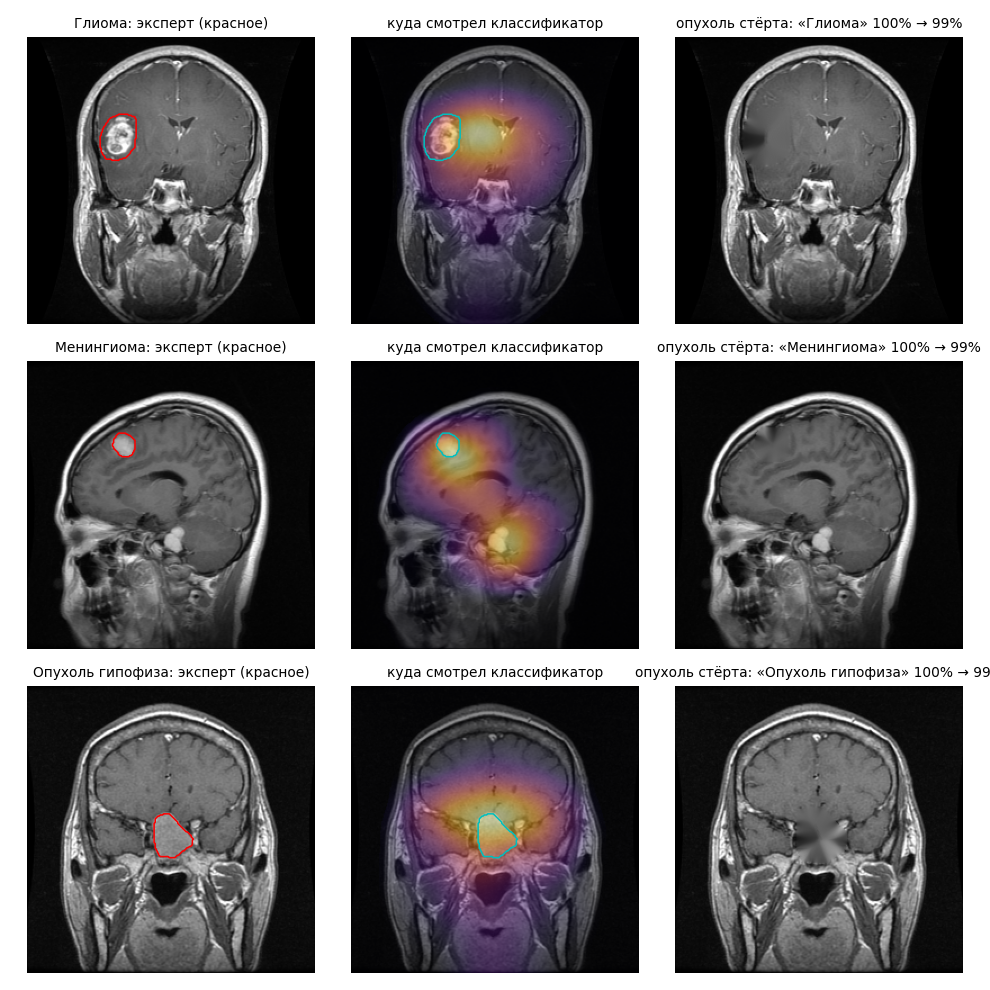
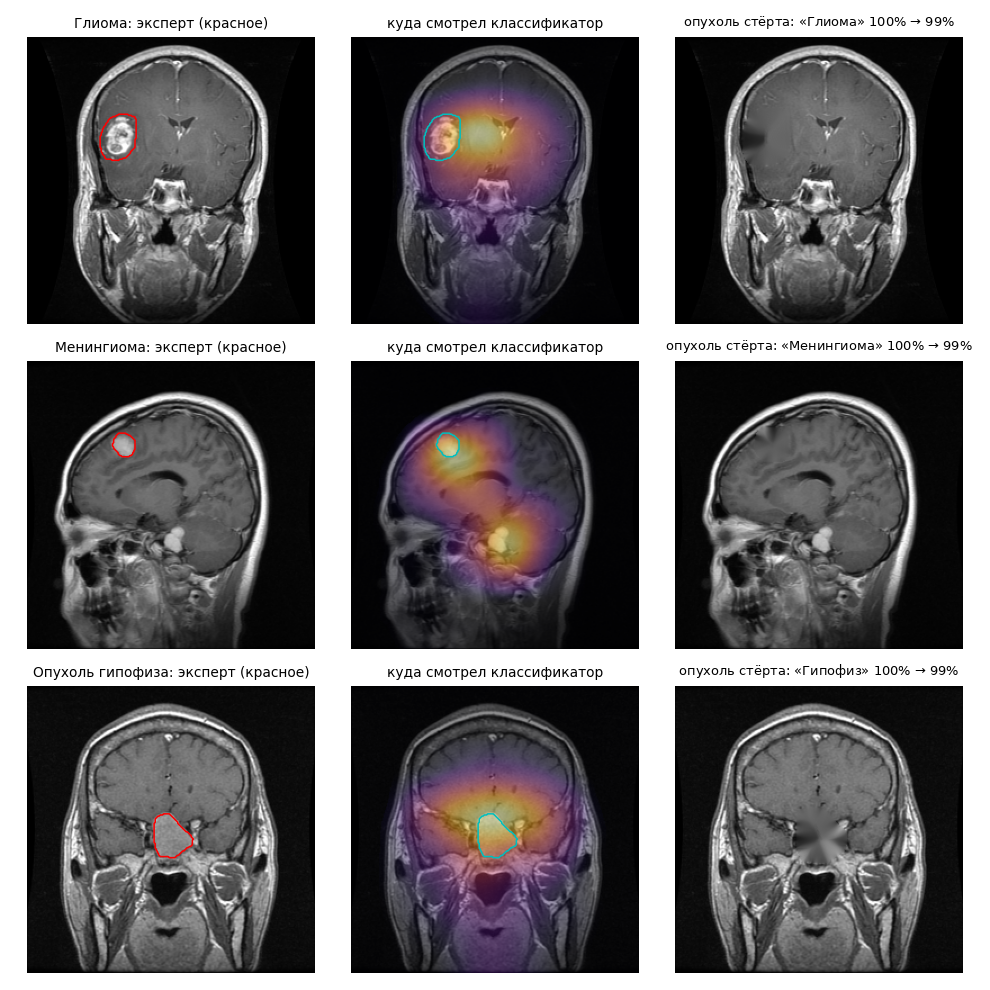
BRISC notebook: phase-A-only mode to re-check the final prototype; explain figure titles fixed
Claude-Session: https://claude.ai/code/session_01KWjYFaDqWdYY8y4uMMdgwF

Changed region(s): [[0.6364, 0.6667, 1.0, 0.697], [0.6667, 0.3333, 1.0, 0.3636], [0.697, 0.0, 0.9697, 0.0303]]

diff --git a/tools/build_brisc_nb.py b/tools/build_brisc_nb.py
@@ -180,6 +180,12 @@ push({'results/stage2/stage2b_summary.json': OUT + '/stage2b_summary.json', 'res
 for p in glob.glob(OUT + '/brisc_maps_*.npz') + glob.glob(OUT + '/w_*.pt'): os.remove(p)
 print('Готово: stage2b_results.zip, stage2b_weights.zip')
 """)
+if '--phase-a-only' in sys.argv:
+    # повторная проверка итогового прототипа (веса из репозитория): только часть A, без обучения кандидатов
+    cells = cells[:4]
+    cells[0]['source'] = cells[0]['source'].replace('проверка прототипа и кандидаты с искажениями качества', 'проверка итогового прототипа (только часть A)')
+    cells[3]['source'] = cells[3]['source'].replace("'BRISC 2025: mapping to our split and current prototype on our test and external images (run on Kaggle)'",
+                                                    "'BRISC 2025: final prototype (v3 weights) on our test and external images (run on Kaggle)'")
 nb = {"cells": cells, "metadata": {"kernelspec": {"name": "python3", "display_name": "Python 3", "language": "python"},
       "language_info": {"name": "python"}, "kaggle": {"accelerator": "gpu", "isInternetEnabled": True, "isGpuEnabled": True}},
       "nbformat": 4, "nbformat_minor": 4}
